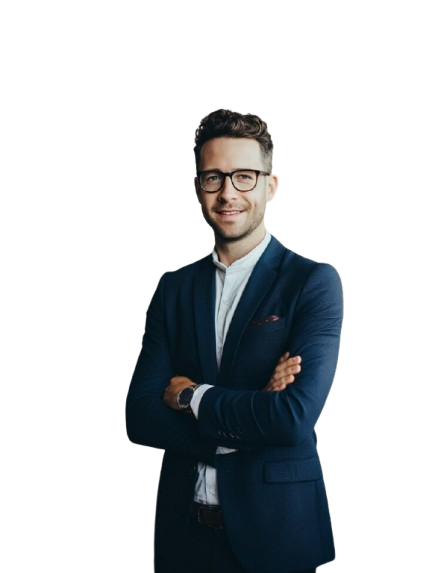
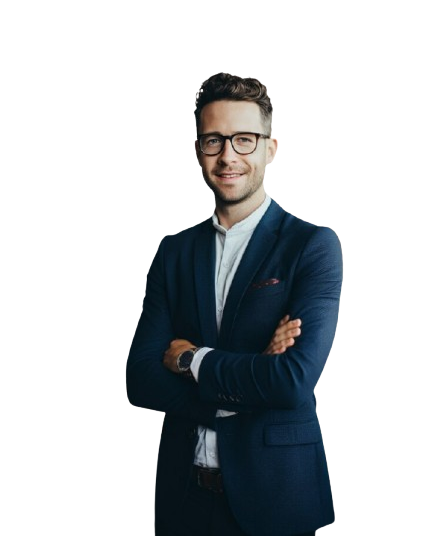
Added new files

diff --git a/src/components/HeroBanner.jsx b/src/components/HeroBanner.jsx
@@ -41,7 +41,7 @@ const HeroBanner = ({ scrollToAgents }) => {
         
         {/* Left Section */}
         <div className="lg:w-1/2 text-center lg:text-left">
-          <h1 className="text-4xl lg:text-4xl font-bold leading-tight text-gray-900">
+          <h1 className="text-4xl lg:text-4xl font-jerom-bold leading-tight text-gray-900">
           Buyer Agents Work for YOU, <br />
           Not the Seller,<br />
            
@@ -65,7 +65,7 @@ const HeroBanner = ({ scrollToAgents }) => {
          {/* Right Section */}
          <div className="lg:w-1/2 flex justify-center relative mt-12 lg:mt-0">
           <motion.img 
-            src="/images/a3.jpg" 
+            src="/images/a3.png" 
             alt="Agent" 
             className="w-[85%] max-w-lg rounded-lg "
             initial={{ scale: 0.9, opacity: 0 }}

diff --git a/src/index.css b/src/index.css
@@ -1,5 +1,5 @@
 @import url('https://fonts.googleapis.com/css2?family=Playwrite+IT+Moderna:wght@100..400&display=swap');
-
+@import url('https://fonts.googleapis.com/css2?family=Manrope:wght@200..800&family=Space+Mono:ital,wght@0,400;0,700;1,400;1,700&family=Stylish&display=swap');
 
 @tailwind base;
 @tailwind components;
@@ -11,7 +11,7 @@ body {
   margin: 0;
   font-family: -apple-system, BlinkMacSystemFont, 'Segoe UI', 'Roboto', 'Oxygen',
     'Ubuntu', 'Cantarell', 'Fira Sans', 'Droid Sans', 'Helvetica Neue' ,'Playwrite Italia Moderna',
-    sans-serif;
+    sans-serif, 'Manrope';
   -webkit-font-smoothing: antialiased;
   -moz-osx-font-smoothing: grayscale;
 

diff --git a/tailwind.config.js b/tailwind.config.js
@@ -5,6 +5,7 @@ module.exports = {
     extend: {
       fontFamily: {
         playwrite: ["Playwrite IT Moderna", "sans-serif"],
+        jerom:["Manrope"],
       },
       colors: {
         "base-white": "#fff",
